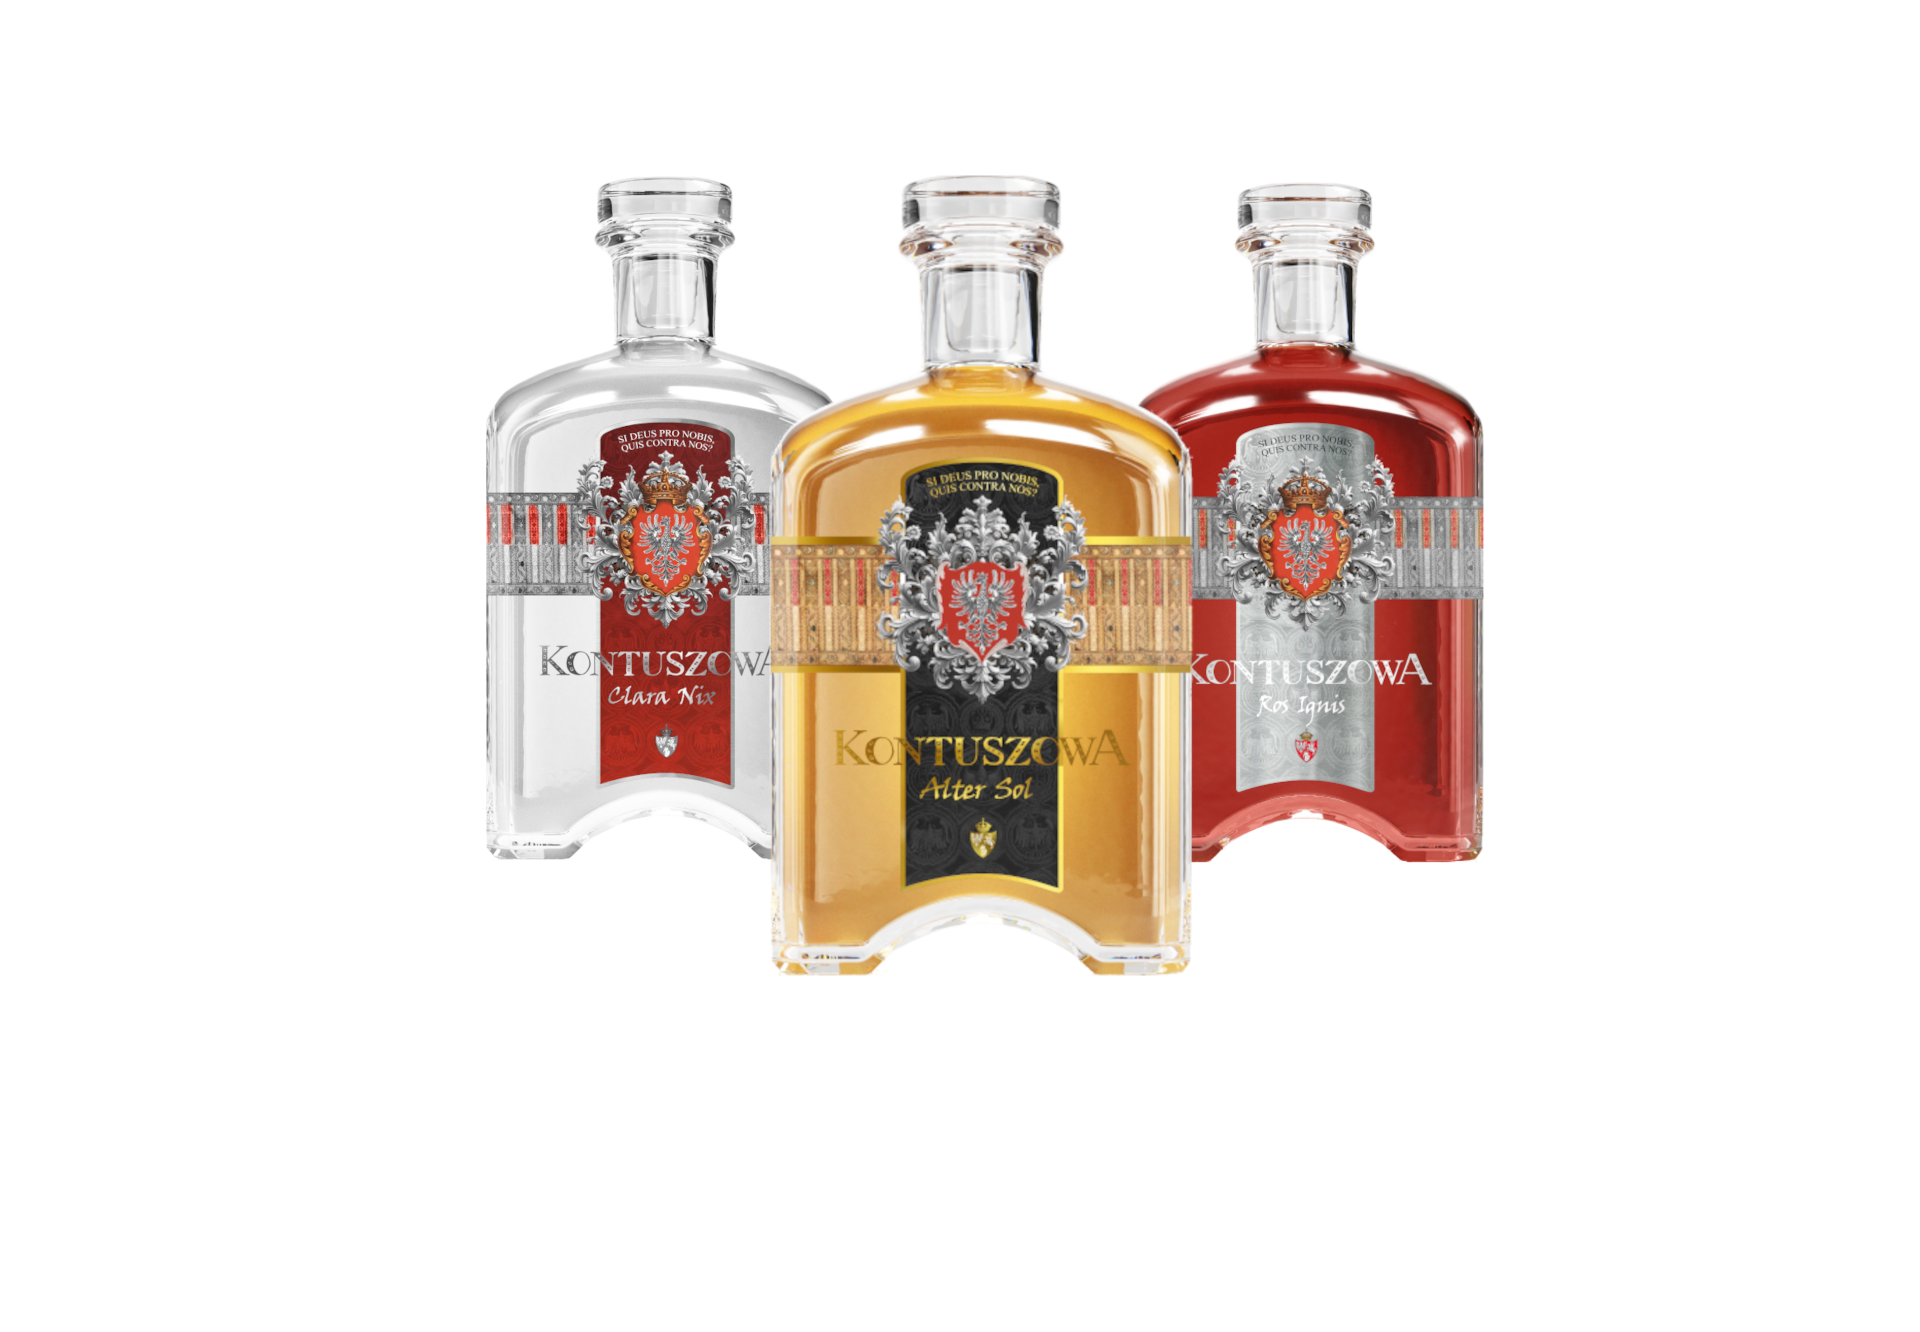
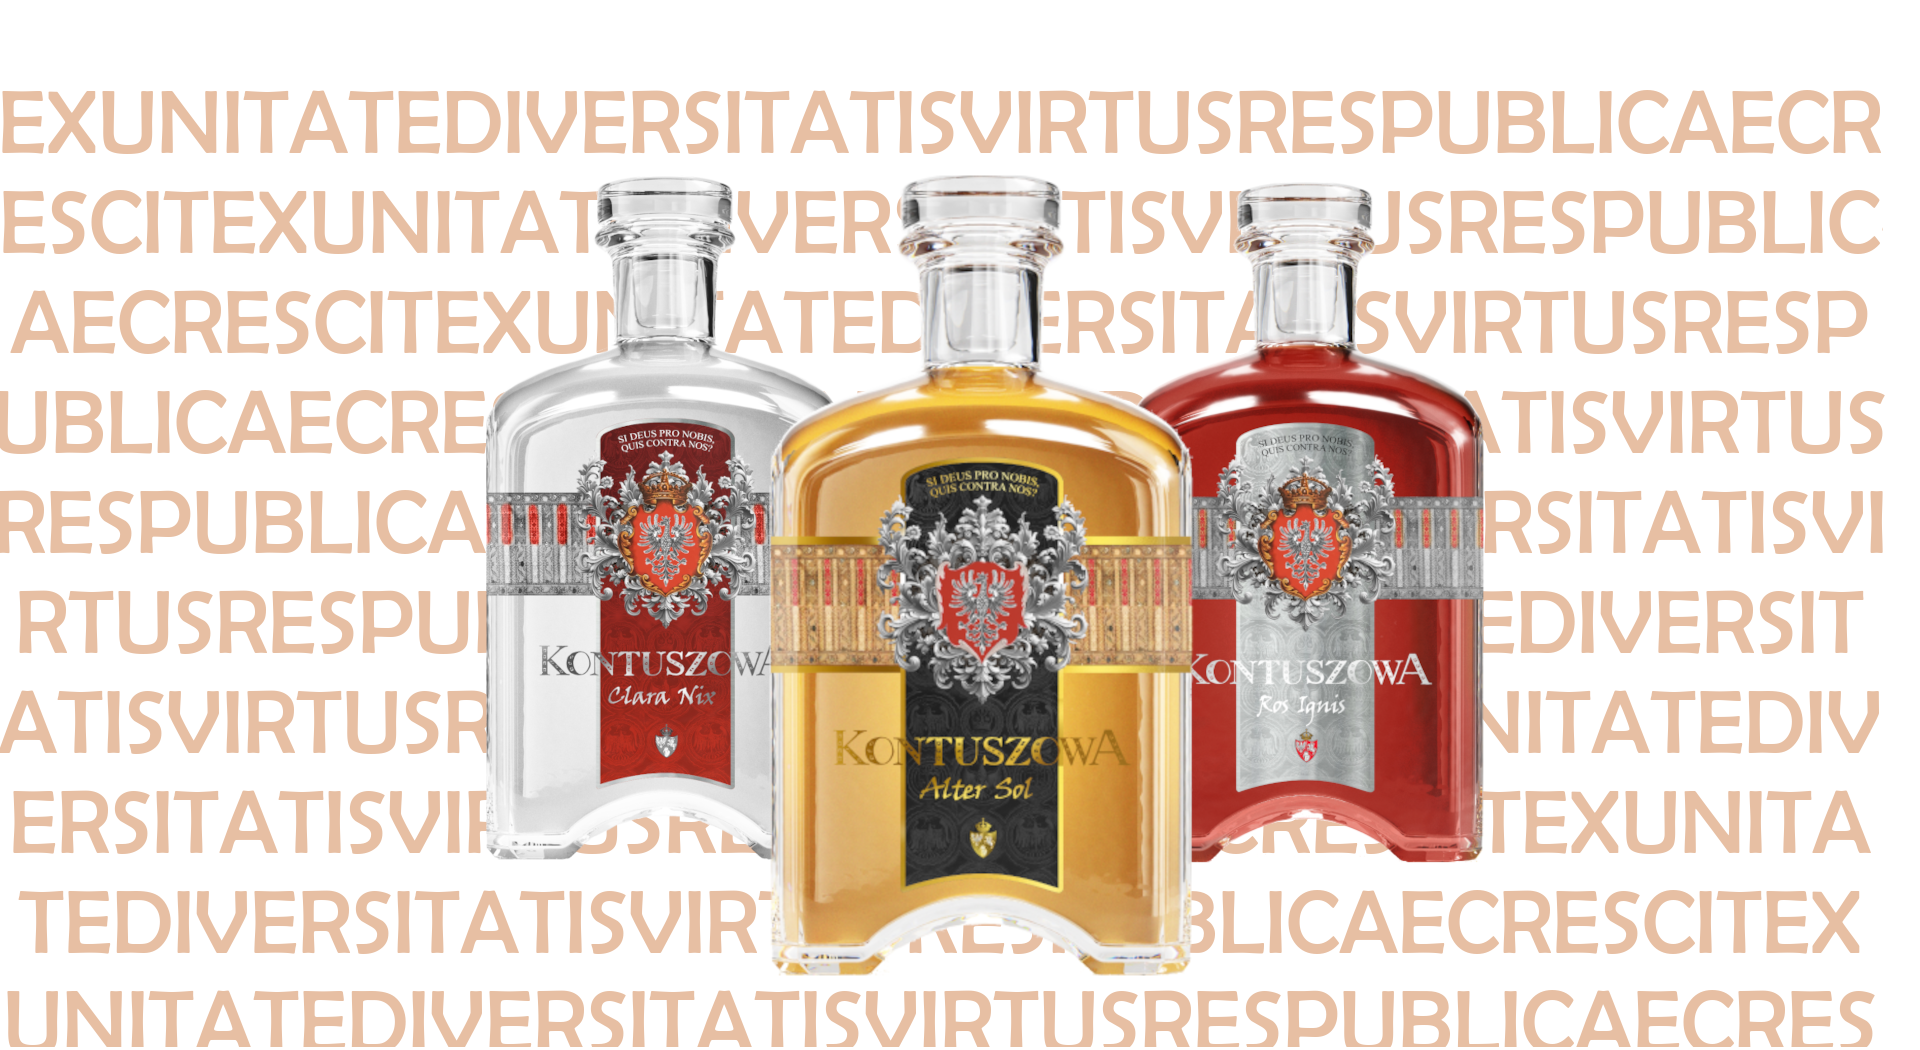
no more table, cool writings now

diff --git a/src/App.css b/src/App.css
@@ -47,12 +47,12 @@ body, html {
   text-align: center;
   min-height: 100vh; /* Full height for flexbox */
   
-    background-color: var(--dark-brown);
+    background-color: #f8ebe0;
   
 }
 
 .App-header {
-  background-image: url('./hero.png');
+  background-image: url('./hero-image.png');
   background-color: #f8ebe0;
   background-size: contain; /* Keeps the image proportions */
   background-repeat: no-repeat; /* Prevents the image from repeating */
@@ -70,12 +70,12 @@ body, html {
 
 .intro-section {
   flex: 1; /* This allows the intro section to grow and fill the available space */
-  padding: 50px 15vw;
-  padding-top: 10px;
-  margin-bottom: 40px;
   
-  background-image: url('./pergaminDol.png');
-  background-color: var(--dark-brown);
+  padding-top: 30px;
+  margin-bottom: 40px;
+  background-image: url('./intro-section.png');
+
+  background-color: #f8ebe0;
   background-size: contain; /* Keeps the image proportions */
   background-repeat: no-repeat; /* Prevents the image from repeating */
   background-position: center top; /* Positions the image at the bottom center */
@@ -86,12 +86,13 @@ body, html {
 }
 
 .intro-section h2 {
-  color: var(--light-cream);
+  color: rgb(101, 100, 100);
   
-  margin-bottom: 20px;
-  margin-left: 25vw;
-  margin-right: 13vw;
-  margin-top: 0;
+  padding-top: 2vw;
+  padding-left: 13vw;
+  padding-right: 13vw;
+  text-align: center;
+  margin-top: 25%;
   font-size: 2vw;
   line-height: 2;
 }
@@ -216,7 +217,7 @@ padding-bottom: 20px;
   color: var(--light-cream);
   text-decoration: none;
   font-size: 18px;
-  padding: 10px;
+  padding: 2vw;
   }
 
 .navbar ul li a:hover {
@@ -760,6 +761,51 @@ padding-bottom: 20px;
   border-left: 3px dotted #421900;
 }
 
+.feast-item {
+  position: relative;
+  display: inline-block;
+}
+
+.info-panel {
+  position: absolute;
+  top: 0;
+  left: 100%; /* Start to the right of the image */
+  background-color: rgba(216, 216, 216, 0.8); /* Semi-transparent light gray */
+  color: #000; /* Adjusted for contrast */
+  padding: 10px;
+  border-radius: 5px;
+  min-width: 300px;
+  white-space: wrap; /* Prevent text wrapping */
+  transform: translateX(-20px); /* Initially offset behind the image */
+  opacity: 0; /* Initially hidden */
+  z-index: 10; /* Make sure this is above other elements */
+  transition: transform 0.3s ease, opacity 0.3s ease;
+}
+.feast-item:hover .info-panel {
+  transform: translateX(0); /* Move it to the right */
+  opacity: 1; /* Make it visible */
+}
+
+.feast-image {
+  max-width: 200px;
+  width: 100%;
+  height: auto;
+  border-radius: 10px;
+  transition: transform 0.3s ease;
+}
+
+.feast-images {
+  display: flex;
+  justify-content: center;
+  gap: 50px; /* Space between images */
+  flex-wrap: wrap; /* Ensures responsiveness */
+  padding-bottom: 30px;
+}
+
+.feast-image:hover {
+  transform: scale(1.05); /* Slight zoom on hover */
+}
+
 .feast-section {
   background-color: #7b4222; /* Dark brown background */
   color: #fff; /* White text */
@@ -779,22 +825,3 @@ padding-bottom: 20px;
   font-family: 'Metamorphous', serif; /* Optional: Customize the font */
 }
 
-.feast-images {
-  display: flex;
-  justify-content: center;
-  gap: 50px; /* Space between images */
-  flex-wrap: wrap; /* Ensures responsiveness */
-}
-
-.feast-image {
-  max-width: 300px;
-  width: 100%;
-  height: auto;
-  border-radius: 10px; /* Optional: Rounded corners */
-  
-  transition: transform 0.3s ease;
-}
-
-.feast-image:hover {
-  transform: scale(1.05); /* Slight zoom on hover */
-}

diff --git a/src/AboutUs.js b/src/AboutUs.js
@@ -10,20 +10,26 @@ function AboutUs({ language }) {
     W sercu Podkarpacia powstała idea odrodzenia szlacheckich tradycji tworzenia wybornych trunków. 
     Kluczowym momentem było nawiązanie współpracy z legendarnym technologiem z Polmosu Łańcut, 
     który pomógł odtworzyć tradycyjne receptury rosolisów. 
-    Nasze produkty, takie jak "Sarmacka Perła" czy "Rosolis Ziołowy", to hołd dla dawnej Rzeczypospolitej.`;
+    Nasze produkty to hołd dla dawnej Rzeczypospolitej.`;
 
   const storyEN = `
     In the heart of Podkarpacie, the idea of reviving noble traditions of crafting exquisite liquors emerged. 
     A crucial milestone was partnering with a legendary technologist from Polmos Łańcut, 
     who helped recreate traditional rosolis recipes. 
-    Our products, like "Sarmacka Pearl" and "Herbal Rosolis," are a tribute to the legacy of old Poland.`;
+    Our products are a tribute to the legacy of old Poland.`;
 
+  const story2PL = 'Zakład „Kontuszowa” został założony w 2024 roku, w sąsiedztwie dawnej posiadłości szlacheckiej. Cały proces produkcji opiera się na zasadach zgodnych z duchem dawnej Polski: używa się jedynie lokalnych surowców, takich jak żyto z okolicznych pól, miód z pasiek w Bieszczadach i zioła uprawiane w tradycyjnych ogródkach. Trunki są wytwarzane metodą rzemieślniczą, z zachowaniem wielopokoleniowych receptur, ale z wykorzystaniem nowoczesnych technologii, które zapewniają najwyższą jakość. Wódki i likiery zakładu czerpią nazwy i inspiracje z kultury szlacheckiej: „Clara Nix”, „Ros Ignis” czy „Alter Sol”. Każda butelka zawiera w sobie cząstkę historii – nie tylko poprzez smak, ale i starannie zaprojektowane etykiety przedstawiające herby i cytaty z literatury staropolskiej';
+  const story2EN = 'The "Kontuszowa" plant was founded in 2024, next to a former noble estate. The entire production process is based on principles consistent with the spirit of ancient Poland: only local raw materials are used, such as rye from nearby fields, honey from apiaries in the Bieszczady Mountains and herbs grown in traditional gardens. The drinks are produced using the craft method, following multi-generational recipes, but using modern technologies that ensure the highest quality. The companys vodkas and liqueurs draw their names and inspirations from the nobility culture: "Clara Nix", "Ros Ignis" and "Alter Sol". Each bottle contains a piece of history - not only through taste, but also carefully designed labels depicting coats of arms and quotations from Old Polish literature.';
   return (
     <div className="about-container">
       <section id="about" className="about-section">
         <h3 className="about-title">{language === 'PL' ? 'O Nas' : 'About Us'}</h3>
         <p className="about-description">
           {language === 'PL' ? storyPL : storyEN}
+        </p>
+        <h3 className="about-title">{language === 'PL' ? 'Historia' : 'History'}</h3>
+        <p className="about-description">
+          {language === 'PL' ? story2PL : story2EN}
         </p>
       </section>
     </div>

diff --git a/src/Home.js b/src/Home.js
@@ -85,12 +85,22 @@ function Home({ language }) {
   <div className="feast-content">
     <h1>{language === 'PL' ? 'Dołącz do biesiady' : 'Join the feast'}</h1>
     <div className="feast-images">
-      <img src="/claraNix.png" alt="Feast 1" className="feast-image" />
-      <img src="/alterSol.png" alt="Feast 2" className="feast-image" />
-      <img src="/rosIgnis.png" alt="Feast 3" className="feast-image" />
+      <div className="feast-item">
+        <img src="/claraNix.png" alt="Feast 1" className="feast-image" />
+        <div className="info-panel">Clara Nix to wyjątkowa wódka biała, destylowana na bazie najwyższej jakości orkiszowego spirytusu. Jej smak jest czysty, klarowny i mocny, z subtelnym, zbożowym akcentem, który oddaje charakter dawnych trunków tworzonych w czasach wojennych. Proces destylacji nawiązuje do tradycyjnych metod, gwarantując nieskazitelną jakość i niezwykłą głębię smaku.</div>
+      </div>
+      <div className="feast-item">
+        <img src="/alterSol.png" alt="Feast 2" className="feast-image" />
+        <div className="info-panel">Alter Sol to wykwintna wódka o delikatnym, miodowym smaku, który doskonale łączy naturalną słodycz z subtelną nutą korzennych przypraw. Jej aksamitna tekstura i łagodny charakter czynią ją idealnym wyborem na długie, towarzyskie spotkania. Smak miodu jest zrównoważony, nie dominując, ale delikatnie podkreślając tradycyjny polski kunszt gorzelniczy. Zapach wódki przenosi w świat dawnych polskich biesiad, oferując ciepło i zmysłowe aromaty.</div>
+      </div>
+      <div className="feast-item">
+        <img src="/rosIgnis.png" alt="Feast 3" className="feast-image" />
+        <div className="info-panel">Ros Ignis to wódka o głębokim, wielowymiarowym smaku, inspirowana bogatą tradycją polskich nalewek ziołowych. Jej smak to harmonia naturalnych ziół, leśnych owoców i odrobiny goryczy, która nadaje charakteru. Wyczuwalne są nuty jałowca, kolendry, anyżu oraz delikatny akcent dębiny, które podkreślają jej wytrawny profil. Aromat przypomina zapach lasu o poranku, pełen świeżości i tajemnicy.</div>
+      </div>
     </div>
   </div>
 </section>
+
 
         </div>
     );
